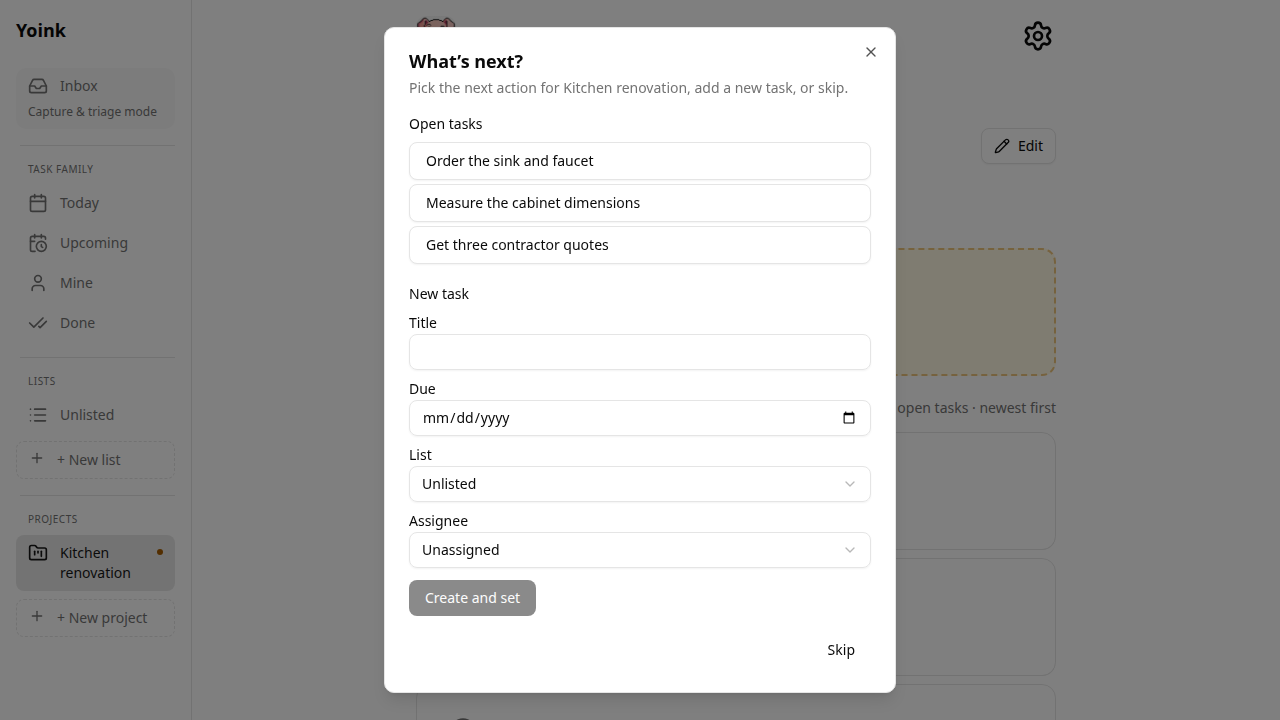
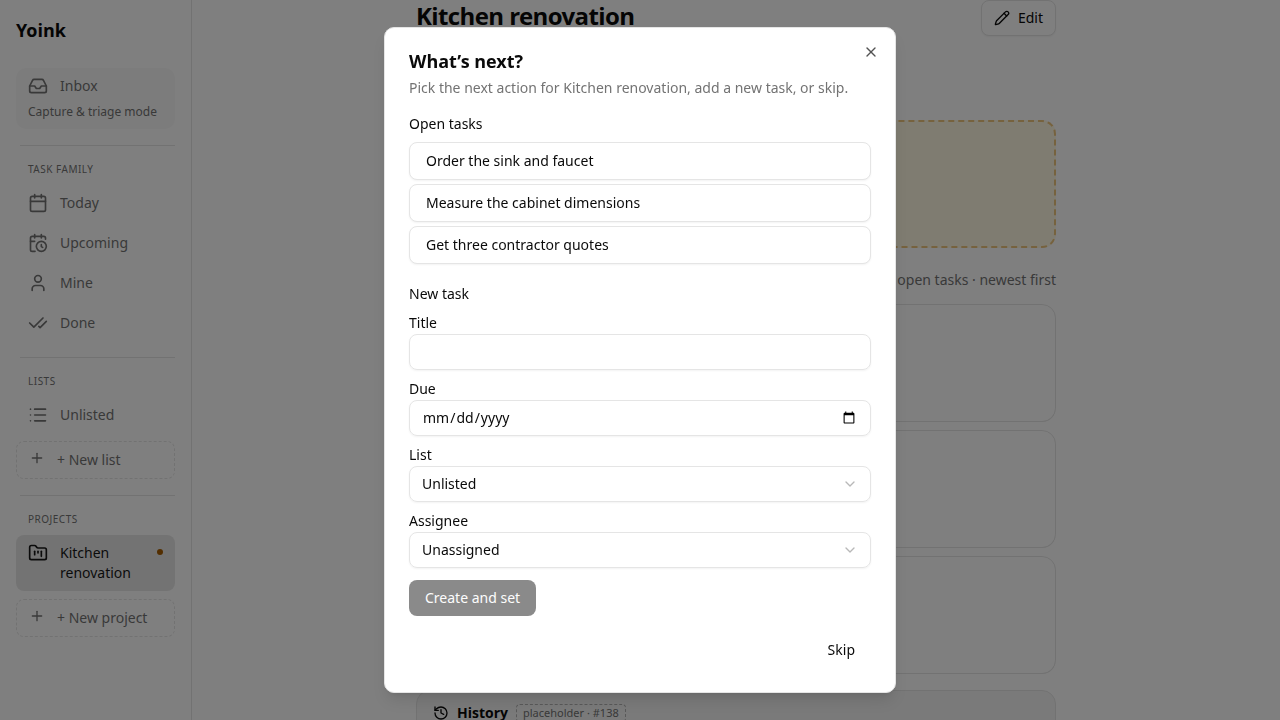
Dismiss walkthrough toasts through Sonner, not the DOM
Ripping [data-sonner-toast] nodes crashed React and blanked the #136
rail behind TanStack Router’s error page. E2E now calls toast.dismiss()
via a test hook so What’s next stays clear without tearing the tree.

diff --git a/packages/acceptance-testing/src/drivers/playwright/actor.ts b/packages/acceptance-testing/src/drivers/playwright/actor.ts
@@ -2377,10 +2377,12 @@ export const createPlaywrightActor = (
     async saveWalkthroughScreenshot(input: { story: string; step: string }): Promise<void> {
       await page.mouse.move(0, 0);
       await page.evaluate(`
-        document.querySelectorAll('[data-sonner-toast]').forEach((node) => node.remove());
+        window.__YOINK_DISMISS_TOASTS?.();
       `);
       if (input.step === 'whats_next') {
-        await expect(page.locator('[data-sonner-toast]')).toHaveCount(0);
+        await expect(page.locator('[data-sonner-toast]')).toHaveCount(0, {
+          timeout: 8_000,
+        });
       }
       const openSelect = page.locator('[data-slot="select-content"][data-state="open"]');
       if ((await openSelect.count()) > 0 && (await openSelect.last().isVisible())) {

diff --git a/apps/web/src/main.tsx b/apps/web/src/main.tsx
@@ -6,6 +6,7 @@ import { routeTree } from './routeTree.gen';
 import { tsr } from './api/client';
 import { initSentry } from './instrument';
 import { createAppQueryClient, installLiveQueryTestHook } from './lib/live-query';
+import { installToastTestHook } from './lib/toast-test-hook';
 import { installSafePointerCapture } from './lib/safe-pointer-capture';
 import './index.css';
 
@@ -13,6 +14,7 @@ installSafePointerCapture();
 
 const queryClient = createAppQueryClient();
 installLiveQueryTestHook(queryClient);
+installToastTestHook();
 
 const router = createRouter({
   routeTree,

diff --git a/apps/web/src/lib/toast-test-hook.ts b/apps/web/src/lib/toast-test-hook.ts
@@ -1,0 +1,18 @@
+import { toast } from 'sonner';
+
+/** Installed on `window` so E2E can dismiss toasts without ripping React nodes. */
+export const DISMISS_TOASTS_TEST_KEY = '__YOINK_DISMISS_TOASTS';
+
+type ToastTestWindow = Window & {
+  [DISMISS_TOASTS_TEST_KEY]?: () => void;
+};
+
+export const installToastTestHook = (): void => {
+  if (typeof window === 'undefined') {
+    return;
+  }
+  const target = window as ToastTestWindow;
+  target[DISMISS_TOASTS_TEST_KEY] = () => {
+    toast.dismiss();
+  };
+};

diff --git a/docs/PLAN.md b/docs/PLAN.md
@@ -84,7 +84,8 @@ For initial product vision and roadmap, see [PRODUCT_VISION.md](./design/PRODUCT
 **Projects plan, story 6: next action + project page** - Complete ✓ (#137 — at most one open-task next action; `PUT /api/projects/:id/next-action` with `{ taskId }` | `{ newTask }` | `{ taskId: null }`; auto-clear in the same batch on complete/delete/move-out/project-done; bots set/replace/clear; reopen does not restore; warning on active+waiting only; All projects amber label + rail amber dot; What’s next after a person completes in the app; page built from `docs/design/137-project-page/`; migration 032)
 
 Recent updates:
-- #137 Tycho review (PR 165): new-task list/assignee refusals are 400 with the task codes (`LIST_NOT_IN_ORGANIZATION`, `ASSIGNEE_NOT_IN_ORGANIZATION`); too-long title is `TASK_TITLE_TOO_LONG`. The always-mounted rail `['projects']` query rides the 10s live poll. Automatic next-action clear writes only `next_action_task_id` + last-changed (`WHERE next_action_task_id = ?`). Tagged set/clear/newTask command; `planNextActionClear` in domain; `PersistSetNextAction` port; projectDone always clears. What’s next from Today (phone + desktop). Flat next-action row; empty card matches the design.
+- #137 Tycho review (PR 165): new-task list/assignee refusals are 400 with the task codes (`LIST_NOT_IN_ORGANIZATION`, `ASSIGNEE_NOT_IN_ORGANIZATION`); too-long title is `TASK_TITLE_TOO_LONG`. The always-mounted rail `['projects']` query rides the 10s live poll. Automatic next-action clear writes only `next_action_task_id` + last-changed (`WHERE next_action_task_id = ?`). Tagged set/clear/newTask command; `planNextActionClear` in domain; `PersistSetNextAction` port; projectDone always clears. What’s next from Today (phone + desktop). Flat next-action row; empty card matches the design. Walkthrough shots dismiss toasts through Sonner (`toast.dismiss`), not by ripping React nodes.
+
 - Next action + approved project page (#137, story 6): product lock Polly (Sat Oct 10, 2026) including Q1–Q4. A project has at most one next action (any open task, including another owner or a bot). Set another replaces. Same-task set and clear-when-none are no-ops (200, no record). Refuse `TASK_NOT_OPEN` / `TASK_NOT_IN_PROJECT` / `TASK_NOT_FOUND` 404 / `PROJECT_DONE` / other-org `PROJECT_NOT_FOUND` 404. Bots can set, replace, and clear. Auto-clear in the same `db.batch` when that task is completed, deleted, moved out, or completed/removed by marking the project done. Reopening a completed former next action does not restore it. `PUT /api/projects/:id/next-action` with `{ taskId }` | `{ newTask }` | `{ taskId: null }`; response `{ project, task? }`. Change log: `ProjectNextActionSet { taskId, previousTaskId }` and `ProjectNextActionCleared { taskId, reason }` (visible, count toward last-changed). Migration 032 adds nullable circular `projects.next_action_task_id`. Web: page from `docs/design/137-project-page/` (All projects back link, PlaceHeading + status chip control, Edit dialog for name/objective, waiting line, next-action card or dashed amber empty card, open tasks excluding the next action, History placeholder). What’s next shows anywhere a person completes the next action in the app; bots get no prompt. Someday may have a next action but never shows the warning; done cannot have one. Marker: All projects amber “No next action” label and a small amber rail dot. Waiting chip uses warning tokens; waiting form (dialog/drawer) opens only on Waiting / edit; Don’t know saves `waitingSince: null`. Live poll includes `['projects']`. Out of scope: History (#138), notebook import (#139), Work/Review, proposals, board rows.
 - #136 phone walkthrough flake (trunk run 38096625907): `saveWalkthroughScreenshot` treated a closing done-confirm dialog as open (`isVisible()` is true during the fade) and then `waitForSettledOpenDialog` waited 30s for `[data-slot="dialog-content"].last()` to become visible after the node unmounted. `done_complete` / `done_take_out` do not leave a dialog open. Helper now settles only `[data-state="open"]`; `pageClickDoneOption` waits for the confirm dialog; confirm complete/remove wait for it to hide and the chip to be `done`. Test layer only.
 - #136 Tycho review (PR 163): restore original `docs/design/137-project-page` PNGs byte-for-byte. `API.md` Error codes cover project routes that return `{ message, code }` only. Marking done pages every open task or refuses leftover (`OPEN_TASKS_UNREAD`); completed/removed counts come from the plans built. Person rules run before waiting fields (bot reopen-as-waiting is 403). Open-task planning is a pure domain function with a typed error. Wrong-type name is `VALIDATION_FAILED`. 409 includes `openTaskCount`. UI singularizes “1 open task”. All-or-nothing DB test: a failing done+complete batch leaves tasks, records, and the project unchanged.
